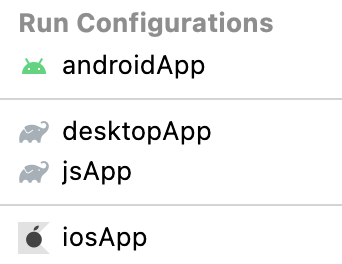
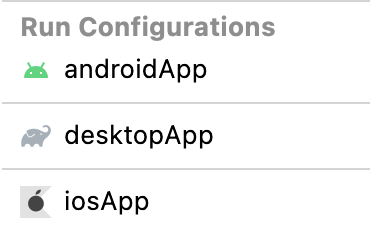
Discussions

diff --git a/examples/chat/README.md b/examples/chat/README.md
@@ -21,12 +21,6 @@ Choose a run configuration for an appropriate target in Android Studio and run i
 
 `./gradlew desktopApp:run`
 
-## Run JS in browser
-
-> Note that this Web target is written using Kotlin/JS, not Kotlin/Wasm, and isn't officially supported
-
-`./gradlew jsApp:jsBrowserDevelopmentRun`
-
 ### Run MacOS via Gradle:
 - on Intel CPU: `./gradlew :shared:runDebugExecutableMacosX64`
 - on Apple Silicon: `./gradlew :shared:runDebugExecutableMacosArm64`

diff --git a/examples/falling-balls/README.md b/examples/falling-balls/README.md
@@ -16,12 +16,6 @@ Choose a run configuration for an appropriate target in Android Studio and run i
 
 `./gradlew desktopApp:run`
 
-## Run JS in browser
-
-> Note that this Web target is written using Kotlin/JS, not Kotlin/Wasm, and isn't officially supported
-
-`./gradlew jsApp:jsBrowserDevelopmentRun`
-
 ## Run native on MacOS
 Choose **shared[macosX64]** or **shared[macosArm64]** configuration in IDE and run it.
 

diff --git a/examples/minesweeper/README.md b/examples/minesweeper/README.md
@@ -18,12 +18,6 @@ Choose a run configuration for an appropriate target in Android Studio and run i
 
 `./gradlew desktopApp:run`
 
-## Run JS in browser
-
-> Note that this Web target is written using Kotlin/JS, not Kotlin/Wasm, and isn't officially supported
-
-`./gradlew jsApp:jsBrowserDevelopmentRun`
-
 ## Run native on MacOS
 `./gradlew runDebugExecutableMacosX64` (Works on Intel processors)
 

diff --git a/examples/html/landing/README.md b/examples/html/landing/README.md
@@ -1,4 +1,6 @@
-Landing page of Compose for Web (a former name of Compose HTML Library)
+A landing page example
+
+> Note that this page describes Compose HTML which was previously called Compose for Web. When we refer to Compose for Web now, we mean Compose based on WebAssembly.
 
 ### Running Web browser application
  * To run, launch command: `./gradlew :jsBrowserRun`
